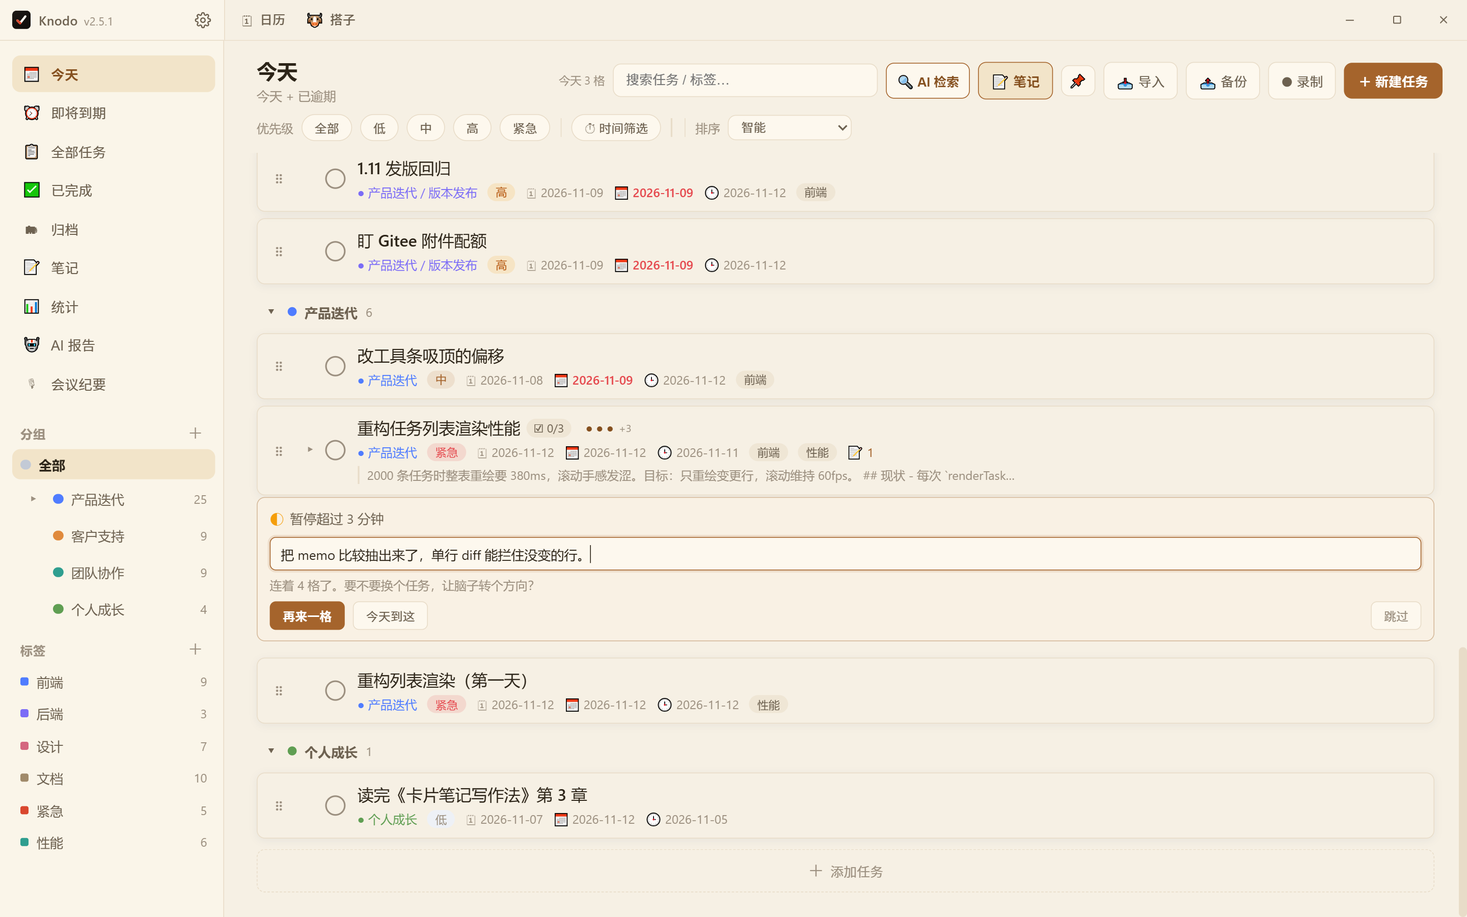
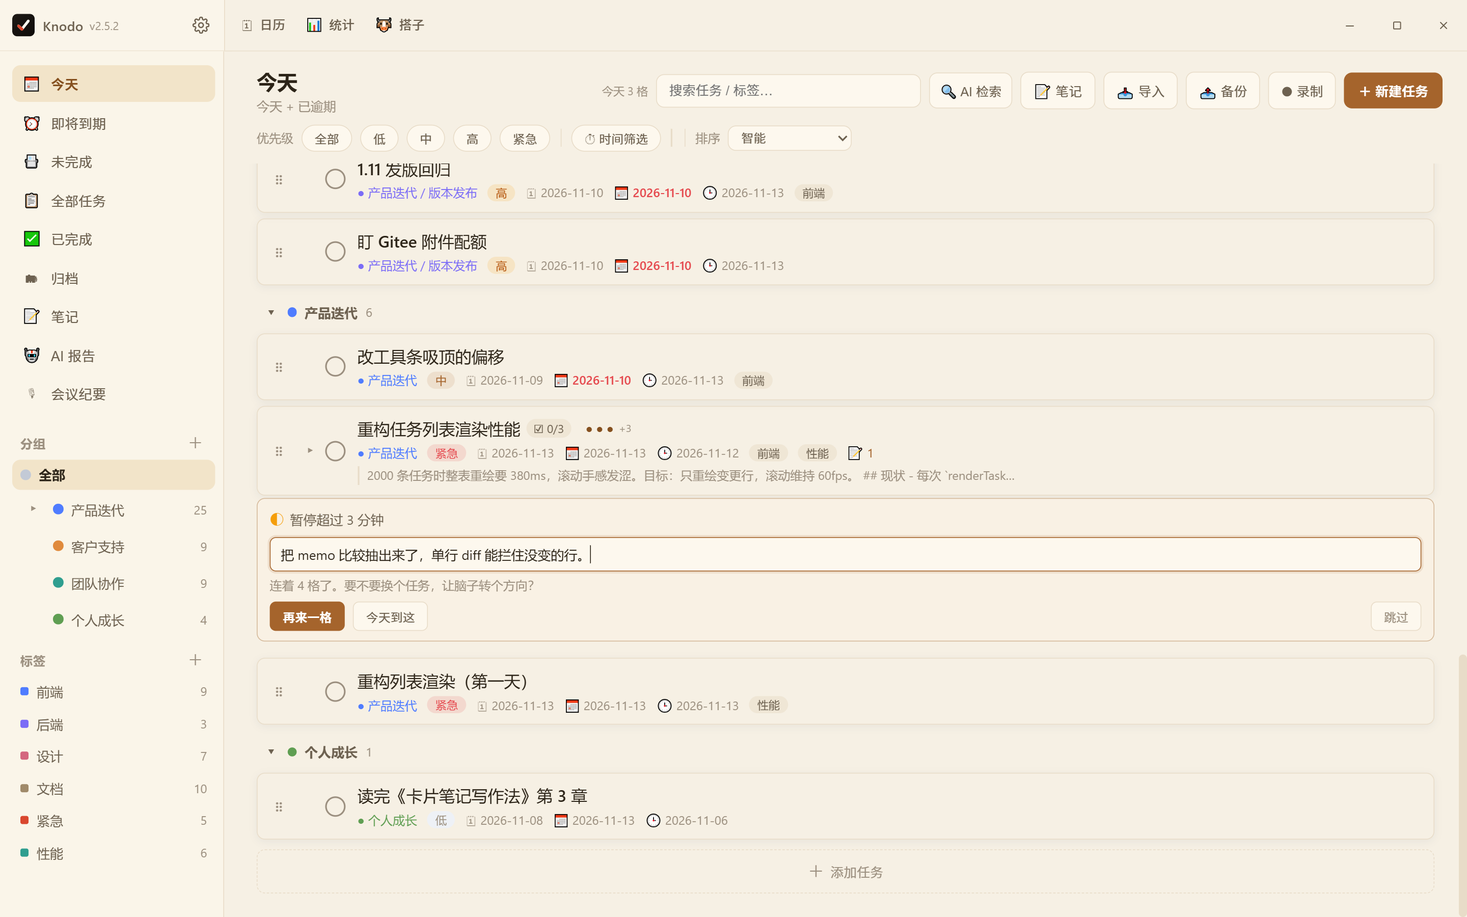
feat(ui): 标题栏加高到 50 + 统计搬进标题栏 + 便签开关收进右键菜单 v2.5.2
标题栏
- TITLEBAR_HEIGHT 40 → 50（`--titlebar-h` 同步），条里的标识 18→22px、设置齿轮 26→30px
  （`left: calc(sidebar - 38px)`）、快捷入口 26→30px —— 50px 的空条里塞 26px 小按钮会显得飘
- 快捷入口改成「日历 → 统计 → 搭子」；`.titlebar > .tb-nav > .nav-item` 统一尺寸，
  不再按单个类点名，新入口继承侧栏 width:100% 会竖排

侧栏
- 加回「未完成」（夹在即将到期与全部任务之间：一个看将来、一个看欠账，再往下才是全量）
- 统计从侧栏挪走，侧栏让给清单

顶栏
- 撤掉 📌：紧挨「笔记」像它的附属按钮，低频开关常驻只是噪音；便签入口收进侧栏
  「未完成」右键菜单（钉到屏幕顶边 / 取消便签），`ui.js` 删掉 paintDockBtn 及其节流缓存
- 「📝 笔记」「🔍 AI 检索」去掉常驻主色描边：只是弹窗入口，常亮看起来像一直处于选中态，
  和旁边的导入 / 备份 / 录制不是一套语言，hover 交回 .text-btn 默认态

文档 / 截图
- README：入口段改「🗓 日历 → 📊 统计 → 🐮 搭子」；吸边便签第三条路改侧栏右键菜单
- 15 张截图随标题栏高度全部重拍（desktop-pin / capture 无变化，未动）
- 发版说明补 v2.5.2 一节

验证：npm run smoke → SMOKE_OK

diff --git a/renderer/css/styles.css b/renderer/css/styles.css
@@ -25,8 +25,10 @@
 
   /* 背景层（JS 写入）：image / scrim / blur / fit / glass */
   --surface-alpha: 1;
-  /* 自绘标题栏高度：必须等于 main/theme.js 的 TITLEBAR_HEIGHT（三键按它对齐） */
-  --titlebar-h: 40px;
+  /* 自绘标题栏高度：必须等于 main/theme.js 的 TITLEBAR_HEIGHT（三键按它对齐）。
+     11-12 用户要求「再高 10px」→ 40 → 50；条内容（logo / 齿轮 / 快捷入口）一并加了一档，
+     否则 50px 的空条里 26px 的小按钮会显得飘。 */
+  --titlebar-h: 50px;
   --glass: 0;
   --bd-image: none;
   --bd-scrim: 0;
@@ -124,7 +126,7 @@ body {
 
 /* ---------------- 自绘标题栏 ---------------- */
 /* 窗口用 titleBarStyle:"hidden" 且不挂 overlay：系统标题栏、菜单栏、窗口三键都不画，
-   这里画一条 40px 的替代品，右上角三颗按钮由 .tb-win 自绘（吃主题 token、能被遮罩压住）。
+   这里画一条 50px 的替代品，右上角三颗按钮由 .tb-win 自绘（吃主题 token、能被遮罩压住）。
    高度必须与 main/theme.js 的 TITLEBAR_HEIGHT 一致 —— 改一处就得改另一处。 */
 .app-shell {
   height: 100vh;
@@ -156,37 +158,38 @@ body {
   border-left: 1px solid var(--border);
 }
 .titlebar > * { position: relative; z-index: 1; }
-.tb-logo { width: 18px; height: 18px; flex: none; overflow: hidden; border-radius: 4px; }
+.tb-logo { width: 22px; height: 22px; flex: none; overflow: hidden; border-radius: 5px; }
 .tb-logo svg { width: 100%; height: 100%; display: block; }
-.tb-name { font-size: 12.5px; font-weight: 600; color: var(--text-2); letter-spacing: 0.2px; }
+.tb-name { font-size: 13px; font-weight: 600; color: var(--text-2); letter-spacing: 0.2px; }
 /* 标题栏设置齿轮：整颗落在「侧栏段」内、贴分界线左侧，不压线。
    右边缘对齐侧栏导航行（.nav-item）的右边缘 —— 侧栏 padding 12 减
    .sidebar-scroll 的负 margin 6 与右 padding 2，净右界 = --sidebar-width - 8px，
-   所以 left = 侧栏宽 - 8 - 26(按钮宽)。改侧栏 padding 时这里要跟着调。
+   所以 left = 侧栏宽 - 8 - 30(按钮宽)。改侧栏 padding 时这里要跟着调。
    左边界由变量反推，拖宽侧栏时齿轮跟着走。标题栏整条是 drag 区 —— 必须 no-drag。 */
 .titlebar > .tb-set {
   position: absolute;
   top: 50%;
-  left: calc(var(--sidebar-width, 220px) - 34px);
+  left: calc(var(--sidebar-width, 220px) - 38px);
   transform: translateY(-50%);
   flex: none;
-  width: 26px; height: 26px;
+  width: 30px; height: 30px;
   display: inline-flex; align-items: center; justify-content: center;
   border: 0; border-radius: 7px; background: transparent; color: var(--text-2);
   cursor: pointer; -webkit-app-region: no-drag;
   transition: background 0.12s ease, color 0.12s ease;
 }
-.tb-set svg { width: 16px; height: 16px; display: block; }
+.tb-set svg { width: 17px; height: 17px; display: block; }
 .tb-set:hover { background: var(--bg-hover); color: var(--text); }
 .tb-set:focus-visible { outline: 2px solid var(--primary); outline-offset: -1px; }
 .tb-set:active { background: var(--bg-active); color: var(--primary-strong); }
 /* 设置面板开着时齿轮保持点亮：遮罩让出了标题栏，一眼能看出「设置正在前台」 */
 .tb-set.is-open { background: var(--bg-active); color: var(--primary-strong); }
 
-/* 标题栏主区段左端的快捷入口组（日历 / 搭子）：与分界线另一侧的齿轮对称（各留 8px）。
+/* 标题栏主区段左端的快捷入口组（日历 / 统计 / 搭子）：与分界线另一侧的齿轮对称（各留 8px）。
    组负责定位与间距，按钮自带尺寸 —— 以后再加入口只往组里塞，不用重算绝对偏移。
-   .tb-cal 仍带 .nav-item 类（复用点击切换与 active 同步），所以基础尺寸要在按钮上按标题栏
-   的高度重写：26px 高、横向自适应的软按钮。hover / active 用 (0,3,0) 压下 .nav-item 默认样式。 */
+   带 data-view 的入口（.tb-cal / .tb-stats）仍带 .nav-item 类（复用点击切换与 active 同步），
+   所以尺寸统一按 .nav-item 重写，不再逐个点名单个类：30px 高、横向自适应的软按钮。
+   hover / active 用 (0,3,0) 压下 .nav-item 默认样式。 */
 .titlebar > .tb-nav {
   position: absolute;
   top: 50%;
@@ -199,12 +202,11 @@ body {
   /* 组整体不可拖：里面全是按钮，漏一个就点不动只会拖窗 */
   -webkit-app-region: no-drag;
 }
-.titlebar > .tb-nav > .tb-cal,
+.titlebar > .tb-nav > .nav-item,
 .titlebar > .tb-nav > .tb-buddy {
-  width: auto; height: 26px;
-  /* 与 .tb-nav 同理：按钮永远单行、不收缩。.tb-cal 还带着 .nav-item 类（复用点击与
-     active 同步），侧栏那条 .nav-item 是 width:100% + 允许换行，标题栏一旦被它接管
-     就会竖排挤成一列 —— 这两条是防止该回归的最小保险 */
+  width: auto; height: 30px;
+  /* 与 .tb-nav 同理：按钮永远单行、不收缩。带 .nav-item 的入口（日历 / 统计）若被侧栏那条
+     width:100% + 允许换行的规则接管，标题栏里就会竖排挤成一列 —— 这两条是防该回归的最小保险 */
   flex: none; white-space: nowrap;
   display: inline-flex; align-items: center; gap: 6px;
   padding: 0 10px 0 8px;
@@ -216,11 +218,11 @@ body {
   cursor: pointer;
   transition: background 0.12s ease, color 0.12s ease;
 }
-.titlebar > .tb-nav > .tb-cal .nav-ico,
+.titlebar > .tb-nav > .nav-item .nav-ico,
 .titlebar > .tb-nav > .tb-buddy .nav-ico { width: auto; font-size: 13px; line-height: 1; }
-.titlebar > .tb-nav > .tb-cal:hover,
+.titlebar > .tb-nav > .nav-item:hover,
 .titlebar > .tb-nav > .tb-buddy:hover { background: var(--bg-hover); color: var(--text); }
-.titlebar > .tb-nav > .tb-cal.active,
+.titlebar > .tb-nav > .nav-item.active,
 .titlebar > .tb-nav > .tb-buddy.is-open {
   background: var(--bg-active); color: var(--primary-strong); font-weight: 600;
 }
@@ -248,7 +250,7 @@ body {
   -webkit-app-region: no-drag;
   transition: background 0.12s ease, color 0.12s ease;
 }
-/* 10×10 细线图标：1px 描边在 40px 高的条里与系统三键的视觉重量相当 */
+/* 10×10 细线图标：1px 描边在 50px 高的条里与系统三键的视觉重量相当 */
 .tb-win-btn svg {
   width: 10px; height: 10px;
   display: block;
@@ -470,14 +472,13 @@ body {
   30%, 70% { box-shadow: inset 0 0 0 2px rgb(var(--primary-rgb) / .35); }
 }
 
-/* 顶栏「🔍 AI 检索」：紧贴搜索框，视图与「过滤列表」区分开，选中态用主色实心 */
+/* 顶栏「🔍 AI 检索」：只是个弹窗入口，和「📝 笔记」同属一类 —— 不常亮。
+   曾经常驻主色描边 + 主色文字，看起来像"一直处于选中状态"；现在只保留布局，
+   配色与 hover 交回 .text-btn 默认态（点开弹窗即关，没有可表示的选中态）。 */
 .text-btn.ai-search-btn {
   display: inline-flex; align-items: center; gap: 4px;
   padding: 8px 10px; font-size: 12.5px; white-space: nowrap;
-  border-color: var(--primary); color: var(--primary-strong); font-weight: 600;
 }
-.text-btn.ai-search-btn:hover { background: var(--bg-active); border-color: var(--primary-strong); }
-.text-btn.ai-search-btn.is-active { background: var(--primary); border-color: var(--primary); color: #fff; }
 
 /* 1080 左右的窗口：新增「AI 检索」后按钮更多，收紧内边距与描述上限换取一整行 */
 @media (max-width: 1250px) {
@@ -502,26 +503,15 @@ body {
   font-size: 13px; outline: none; transition: border-color .2s, box-shadow .2s;
 }
 .search-box input:focus { border-color: var(--primary); }
-/* 顶栏「📝 笔记」：紧贴搜索框的高亮按钮 —— 笔记是最容易被新用户忽略的核心功能，
-   用主色描边 + 主色文字让它从一排灰按钮里跳出来，悬停转实心 */
+/* 顶栏「📝 笔记」：只是个入口，点开是弹窗、不代表当前视图，所以保持普通 text-btn 外观。
+   曾经给它常驻主色边框 + 淡底（想强调新功能），结果看起来像"一直处于激活状态"，
+   和旁边的导入 / 备份 / 录制不是一套语言 —— 用户要求取消高亮，hover 交给 .text-btn 默认态。 */
 .text-btn.note-btn {
   display: inline-flex; align-items: center; gap: 4px;
-  border-color: var(--primary); background: var(--bg-active);
-  color: var(--primary-strong); font-weight: 600;
 }
-.text-btn.note-btn:hover { background: var(--primary); border-color: var(--primary); color: #fff; }
 
-/* 顶栏「📌 贴顶便签」：只放图标不写文字（顶栏 1080 已排满），已打开时主色高亮 */
-.text-btn.dock-btn {
-  padding: 8px 7px;
-  line-height: 1;
-  flex: none;
-}
-.text-btn.dock-btn.is-on {
-  border-color: var(--primary);
-  background: var(--primary);
-  color: #fff;
-}
+/* 顶栏「📌 贴顶便签」按钮已下线（入口迁到侧栏「未完成」右键菜单），
+   这里的 .dock-btn 样式随之移除；以后要恢复顶栏入口，记得一并恢复 .is-on 选中态。 */
 
 .icon-btn {
   width: 34px; height: 34px; border: 1px solid var(--border);
@@ -1338,7 +1328,7 @@ li.focus-wrapup {
    弹窗开着时仍能最小化 / 关窗，也避免遮罩边缘正好切在三键下方、看起来像贴上去的补丁。
    三键现在是自绘的（.tb-win），遮罩若盖住标题栏会连带盖掉它们，所以这条边界别动。 */
 .modal-mask {
-  position: fixed; inset: var(--titlebar-h, 40px) 0 0 0; z-index: 300; background: rgba(0, 0, 0, 0.35);
+  position: fixed; inset: var(--titlebar-h, 50px) 0 0 0; z-index: 300; background: rgba(0, 0, 0, 0.35);
   display: flex; align-items: center; justify-content: center; padding: 24px;
 }
 .modal {
@@ -1348,7 +1338,7 @@ li.focus-wrapup {
   overflow: hidden;
   /* 关键约束：弹窗高度不得超过可视区（留出标题栏 + .modal-mask 的 24px 上下内边距）。
      没有它时，字段一多就会顶出屏幕，底部按钮被裁掉、无法点击。 */
-  max-height: calc(100vh - var(--titlebar-h, 40px) - 48px);
+  max-height: calc(100vh - var(--titlebar-h, 50px) - 48px);
   display: flex; flex-direction: column;
 }
 .modal-head {
@@ -2000,7 +1990,7 @@ html.is-resizing .detail-foot { pointer-events: none; }
 .sr-tried li::before { content: '·'; position: absolute; left: 4px; color: var(--text-3); }
 
 /* ---- 弹窗容器 ---- */
-.modal-search { width: 860px; max-width: 100%; height: min(620px, calc(100vh - var(--titlebar-h, 40px) - 48px)); }
+.modal-search { width: 860px; max-width: 100%; height: min(620px, calc(100vh - var(--titlebar-h, 50px) - 48px)); }
 .modal-search .modal-head { padding: 12px 16px 12px 18px; }
 /* body 自己不能滚：滚动交给 .search-stage / .sh-list，否则两栏会一起被推走 */
 .modal-search .modal-body { padding: 12px 16px 10px; gap: 0; overflow: hidden; }
@@ -2996,7 +2986,7 @@ body.nt-fs-open { overflow: hidden; }
   width: min(1120px, 88vw);
   height: min(820px, 84vh);
   max-width: calc(100vw - 48px);
-  max-height: calc(100vh - var(--titlebar-h, 40px) - 48px);
+  max-height: calc(100vh - var(--titlebar-h, 50px) - 48px);
   display: flex; flex-direction: column;
 }
 .modal.modal-note-editor .modal-head { flex: 0 0 auto; padding: 10px 12px 10px 18px; }
@@ -3158,7 +3148,7 @@ body.nt-fs-open { overflow: hidden; }
   width: 920px;
   height: 660px;
   max-width: calc(100vw - 48px);
-  max-height: calc(100vh - var(--titlebar-h, 40px) - 48px);
+  max-height: calc(100vh - var(--titlebar-h, 50px) - 48px);
   border-radius: 14px;
 }
 /* 所有设置项都是「改完即生效」，没有保存语义 → 不要底部按钮栏，只留右上角 ✕ 与 Esc */

diff --git a/renderer/index.html b/renderer/index.html
@@ -33,7 +33,7 @@
   <!-- 应用外壳：上面一条自绘标题栏，下面才是原本的 侧栏 + 主区。
        窗口是 titleBarStyle:"hidden" 且不挂 overlay —— 系统标题栏、菜单栏、窗口三键
        全部不画，三键由 .tb-win 自绘（见下方的图标与 titlebar 注释）。
-       .titlebar 的高度必须等于 main/theme.js 的 TITLEBAR_HEIGHT(40)。 -->
+       .titlebar 的高度必须等于 main/theme.js 的 TITLEBAR_HEIGHT(50)。 -->
   <div class="app-shell">
     <!-- 整条都是拖拽区：按住空白处可拖窗，双击标题栏 = 最大化 / 还原（系统按 caption 处理） -->
     <header class="titlebar">
@@ -65,13 +65,16 @@
           <path d="M19.4 15a1.65 1.65 0 0 0 .33 1.82l.06.06a2 2 0 1 1-2.83 2.83l-.06-.06a1.65 1.65 0 0 0-1.82-.33 1.65 1.65 0 0 0-1 1.51V21a2 2 0 1 1-4 0v-.09A1.65 1.65 0 0 0 9 19.4a1.65 1.65 0 0 0-1.82.33l-.06.06a2 2 0 1 1-2.83-2.83l.06-.06a1.65 1.65 0 0 0 .33-1.82 1.65 1.65 0 0 0-1.51-1H3a2 2 0 1 1 0-4h.09A1.65 1.65 0 0 0 4.6 9a1.65 1.65 0 0 0-.33-1.82l-.06-.06a2 2 0 1 1 2.83-2.83l.06.06a1.65 1.65 0 0 0 1.82.33H9a1.65 1.65 0 0 0 1-1.51V3a2 2 0 1 1 4 0v.09a1.65 1.65 0 0 0 1 1.51 1.65 1.65 0 0 0 1.82-.33l.06-.06a2 2 0 1 1 2.83 2.83l-.06.06a1.65 1.65 0 0 0-.33 1.82V9a1.65 1.65 0 0 0 1.51 1H21a2 2 0 1 1 0 4h-.09a1.65 1.65 0 0 0-1.51 1z" />
         </svg>
       </button>
-      <!-- 标题栏主区段左端的快捷入口组：日历 + 搭子（顺序就是视觉顺序）。
+      <!-- 标题栏主区段左端的快捷入口组：日历 + 统计 + 搭子（顺序就是视觉顺序）。
            .tb-nav 只负责定位与间距，按钮自带尺寸 —— 再加一个入口时不用重算绝对偏移。
-           日历：从侧栏搬来（侧栏那项已移除），保留 .nav-item 类与 data-view ——
+           日历 / 统计：从侧栏搬来，保留 .nav-item 类与 data-view ——
            点击切换、active 高亮、视图重绘全都复用既有逻辑。 -->
       <div class="tb-nav" role="group" aria-label="快捷入口">
         <button type="button" class="nav-item tb-cal" data-view="calendar"
                 title="日历视图：月 / 周负载总览（Ctrl+Alt+M）"><span class="nav-ico">🗓</span>日历</button>
+        <!-- 统计：用户指定夹在日历与搭子中间（原先在侧栏底部） -->
+        <button type="button" class="nav-item tb-stats" data-view="stats"
+                title="统计视图：任务完成情况概览（按分组 / 标签 / 优先级看欠账与产出）"><span class="nav-ico">📊</span>统计</button>
         <!-- 搭子：工位搭子面板（五页签主浮窗的「搭子」页）。
              它不是视图，所以不挂 .nav-item / data-view —— 点击只开模态，不切 state.view。 -->
         <button type="button" class="tb-buddy" id="btn-buddy"
@@ -107,11 +110,13 @@
           <nav class="nav">
             <button class="nav-item" data-view="today"><span class="nav-ico">📅</span>今天</button>
             <button class="nav-item" data-view="upcoming"><span class="nav-ico">⏰</span>即将到期</button>
+            <!-- 「未完成」= 全部进行中任务，跨分组汇总（含逾期 / 未排期）。
+                 放在「即将到期」与「全部任务」之间：一个看将来，一个看欠账，再往下才是全量。 -->
+            <button class="nav-item" data-view="unfinished"><span class="nav-ico">📇</span>未完成</button>
             <button class="nav-item" data-view="all"><span class="nav-ico">📋</span>全部任务</button>
             <button class="nav-item" data-view="completed"><span class="nav-ico">✅</span>已完成</button>
             <button class="nav-item" data-view="archived"><span class="nav-ico">🗂</span>归档</button>
             <button class="nav-item" data-view="notes"><span class="nav-ico">📝</span>笔记</button>
-            <button class="nav-item" data-view="stats"><span class="nav-ico">📊</span>统计</button>
             <button class="nav-item" data-view="reports"><span class="nav-ico">🤖</span>AI 报告</button>
             <button class="nav-item" data-view="meetings"><span class="nav-ico">🎙</span>会议纪要</button>
           </nav>
@@ -158,9 +163,8 @@
                     title="AI 检索：关键词检索全部任务并生成 AI 总结（再点一次返回任务列表）">🔍 AI 检索</button>
             <button type="button" class="text-btn note-btn" id="btn-notes-dock"
                     title="打开笔记（弹窗，内容与侧栏「笔记」完全一致，不离开当前任务）">📝 笔记</button>
-            <!-- 贴顶便签：把「未完成」钉成屏幕顶边一条，悬停展开。只放图标，顶栏已排满 -->
-            <button type="button" class="text-btn dock-btn" id="btn-dock"
-                    title="把「未完成」钉到屏幕顶边（悬停展开成列表）">📌</button>
+            <!-- 贴顶便签（📌）不再占顶栏位置：紧挨「笔记」看起来像笔记的附属按钮，
+                 而且它是低频开关、常驻图标只是噪音。入口保留在侧栏「未完成」的右键菜单里。 -->
             <button class="text-btn" id="btn-import" title="从完整备份包（.zip）或旧版 JSON 恢复">📥 导入</button>
             <button class="text-btn" id="btn-export" title="导出完整备份包（任务 / 笔记 / 附件 / 录音都在里面）">📤 备份</button>
             <!-- 「🗂 归档」已移入 File 菜单（低频维护动作），腾出的行宽给搜索框与 AI 检索 -->

diff --git a/renderer/js/ui.js b/renderer/js/ui.js
@@ -361,8 +361,7 @@ function bindStaticEvents() {
     openNotesDock().catch((e) => toast(`打开笔记失败：${(e && e.message) || e}`));
   });
 
-  // 贴顶便签：把「未完成」钉到屏幕顶边（再点取消）
-  document.getElementById('btn-dock')?.addEventListener('click', () => { toggleDock(); });
+  // 贴顶便签的开关已迁到侧栏「未完成」右键菜单（showViewContextMenu），顶栏不再有 📌 按钮
 
   // 顶栏标签筛选指示：点击即清除筛选
   const tagChip = document.getElementById('tag-filter-chip');
@@ -574,8 +573,6 @@ async function render() {
   const aiBtn = document.getElementById('btn-ai-search');
   if (aiBtn) aiBtn.title = 'AI 检索：关键词检索全部任务并生成 AI 总结（弹窗，不离开当前视图）';
   syncNavHint();
-  // 顶栏「贴顶便签」的选中态也跟着每次重绘校正一次（事件偶尔丢一拍时能自愈）
-  paintDockBtn();
   renderTagFilterChip();
   if (state.view === 'stats') { await renderStats(); return; }
   if (state.view === 'reports') { await renderReports(); return; }
@@ -647,36 +644,7 @@ async function refreshDesktopPins(rerender = true) {
     renderSidebarList();
     // 导航项（今天 / 即将到期 / 未完成）上的 📌 不随分组列表重绘，单独刷一次
     paintNavPins();
-    paintDockBtn(true);
   }
-}
-
-/**
- * 顶栏「贴顶便签」按钮的选中态。
- * 这里**实时查一次**而不是只读 desktopPins 缓存：钉 / 取消钉是异步的，
- * 缓存刷新与按钮重绘容易错一拍，表现为「已经钉了但图标没亮」。
- */
-let dockBtnToken = 0;
-let dockBtnAt = 0;
-async function paintDockBtn(force = false) {
-  const btn = document.getElementById('btn-dock');
-  if (!btn) return;
-  // 每次重绘都会调一次，节流 400ms：视图切换足够即时，又不会变成 IPC 洪水
-  if (!force && Date.now() - dockBtnAt < 400) return;
-  dockBtnAt = Date.now();
-  const token = ++dockBtnToken;
-  let pins = desktopPins;
-  try {
-    const live = await api.desktop.list();
-    if (Array.isArray(live)) pins = live;
-  } catch (e) { /* 主进程忙时退回缓存，不闪成「未钉」 */ }
-  if (token !== dockBtnToken) return; // 只应用最后一次，避免并发回填旧状态
-  // 顶条与侧吸都算「便签开着」：同一个视图只该有一条便签，按钮不该因为换了条边就显示未开
-  const pin = (pins || []).find((p) => p.kind === 'unfinished' && p.dock);
-  btn.classList.toggle('is-on', !!pin);
-  btn.title = pin
-    ? '便签已打开：点击取消（也可以在便签上点 📌 / Esc 收起）'
-    : '把「未完成」钉到屏幕顶边（悬停展开成列表）';
 }
 
 /**
@@ -684,6 +652,7 @@ async function paintDockBtn(force = false) {
  * 它装的是「未完成」这一份口径 —— 用户要的是「我欠多少」而不是「现在做什么」，
  * 22 条对「今天」是噪音，对「未完成」才是答案。
  * 已经在侧吸的也算「已打开」：再点一次是取消，不是又钉一条顶条出来。
+ * 入口只有侧栏「未完成」的右键菜单（顶栏的 📌 按钮已下线，避免紧挨「笔记」时像它的附属按钮）。
  */
 async function toggleDock() {
   const pin = desktopPins.find((p) => p.kind === 'unfinished' && p.dock);

diff --git a/scripts/release-gitee.js b/scripts/release-gitee.js
@@ -103,6 +103,19 @@ async function main() {
     '- 外观（明暗 × 六套风格 × 自己的背景图，面板透明度自动补偿 + WCAG 护栏）',
     '- 上班鼓励器 · 工位搭子（每秒进账 / 每日一签 / 牛马币 / 今日牛马卡）',
     '',
+    '### v2.5.2 更新',
+    '- **标题栏再高一档**（40 → 50px）：条里的标识、设置齿轮、快捷入口按比例放大（22 / 30 / 30px），'
+      + '不然 50px 的空条里塞着 26px 的小按钮，看着是「飘」在上面的',
+    '- **统计搬进标题栏**：现在是「🗓 日历 → 📊 统计 → 🐮 搭子」一字排开，都是随手要看的页面；'
+      + '侧栏让出来给清单，同时把「未完成」加回侧栏（夹在「即将到期」与「全部任务」之间 —— '
+      + '一个看将来，一个看欠账，再往下才是全量）',
+    '- **顶栏的 📌 下线**：它紧挨「📝 笔记」，看着像笔记的附属按钮，而且是个低频开关、常驻只是噪音。'
+      + '便签入口收进侧栏「未完成」的右键菜单（「钉到屏幕顶边」/「取消便签」），三条边吸附、悬停展开都不变',
+    '- **顶栏两个入口去掉常驻高亮**：「📝 笔记」和「🔍 AI 检索」原来带着主色描边 + 主色文字，'
+      + '看起来像「一直处于选中状态」，和旁边的导入 / 备份 / 录制不是一套语言；'
+      + '它们只是弹窗入口，现在回到普通按钮外观，悬停才亮',
+    '- README 与入门文档按新入口重写，15 张截图随标题栏高度重拍',
+    '',
     '### v2.5.1 更新',
     '- **标题栏自己画**：系统标题栏与菜单栏一起撤掉，顶上是 40px 的自绘条 —— 左边标识 + 名称 + 版本号，'
       + '左端一组快捷入口（日历 / 搭子），贴着侧栏分界线一颗齿轮开设置中心，右端三个窗口键。'

diff --git a/main/theme.js b/main/theme.js
@@ -159,7 +159,7 @@ function bgColor(theme, nativeTheme) {
  * 自绘标题栏高度（DIP）。渲染层 styles.css 的 --titlebar-h 必须写同一个值，
  * 否则标题栏内容会错行（三键也是按这个高度画的）。
  */
-const TITLEBAR_HEIGHT = 40;
+const TITLEBAR_HEIGHT = 50;
 
 /**
  * 合并写入（局部更新）：只传要改的字段，背景对象做浅合并。
